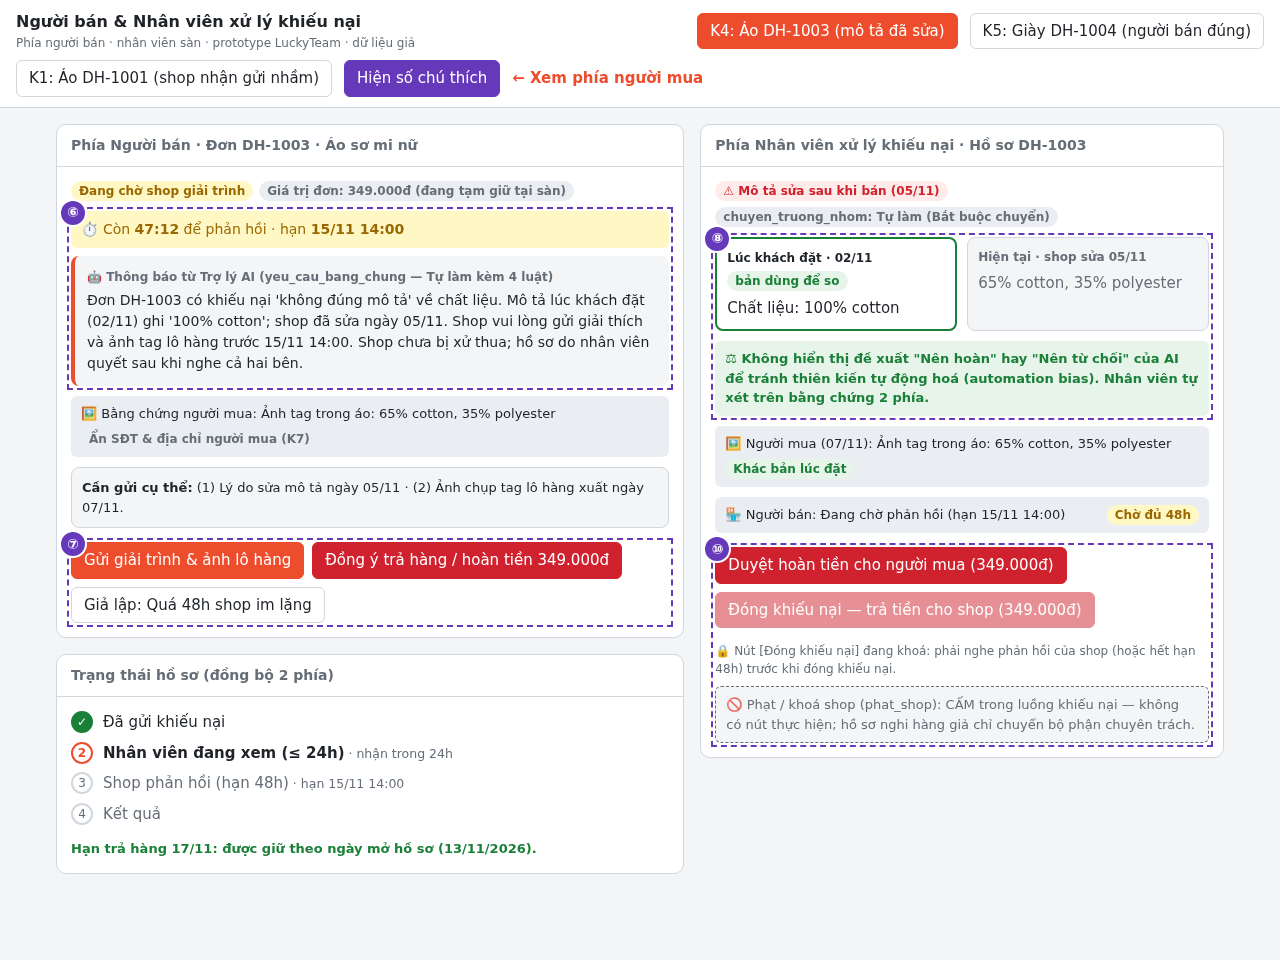
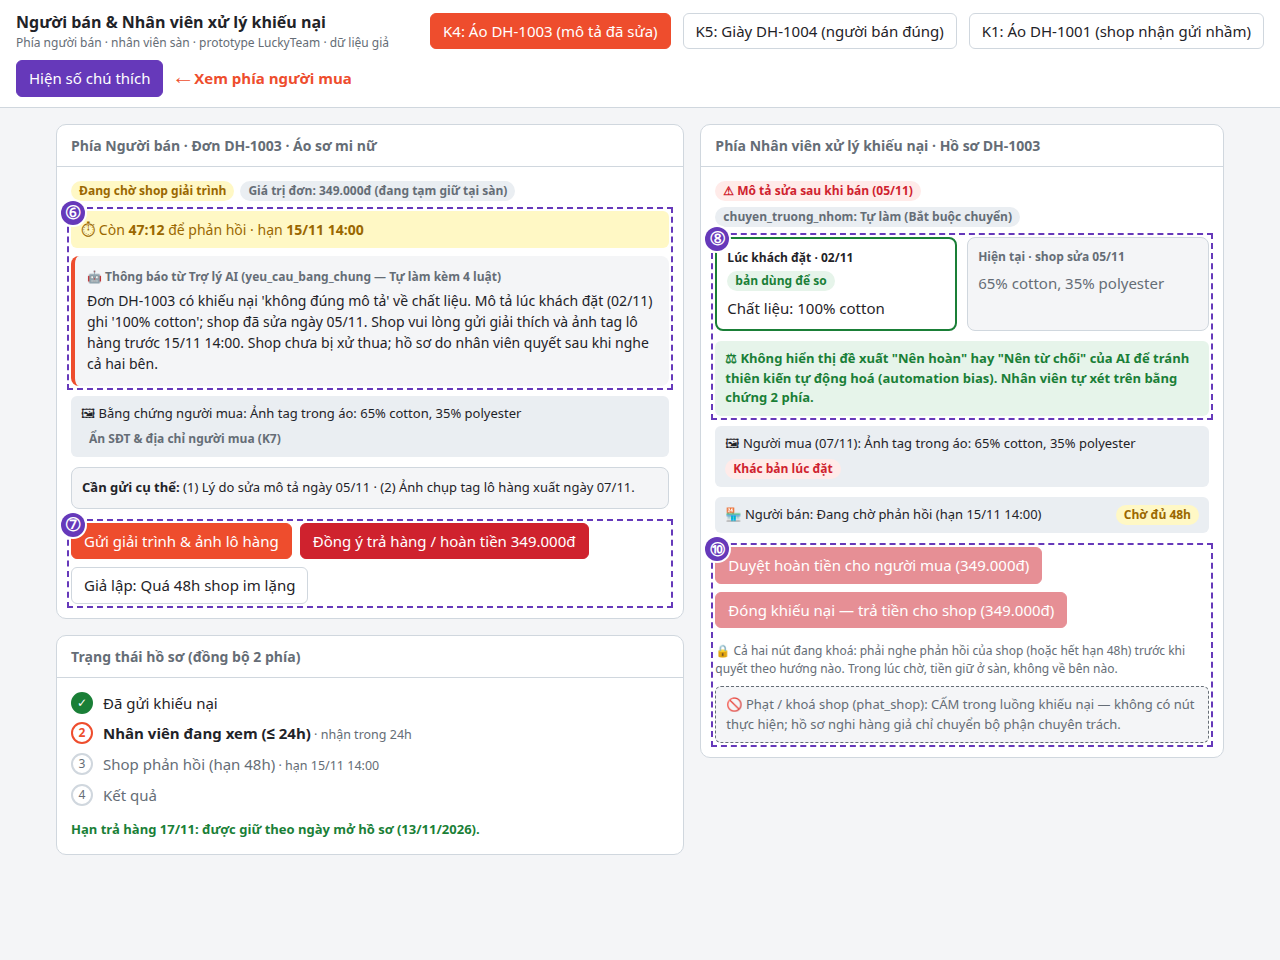
Khoá đối xứng hai nút quyết của nhân viên cho tới khi nghe shop, chụp lại ảnh màn người bán

diff --git a/prototype/seller.html b/prototype/seller.html
@@ -243,7 +243,7 @@
 
       <div class="bang-chung">
         <span>🖼 Người mua (${don.ngayGiao}): ${don.bangChungNguoiMua}</span>
-        <span class="nhan nhan-xanh">Khác bản lúc đặt</span>
+        <span class="nhan nhan-do">Khác bản lúc đặt</span>
       </div>
 
       <div class="bang-chung">
@@ -472,7 +472,7 @@
       <div class="khoi-dau">
         <span class="nhan nhan-xam">Hàng đợi nhân viên</span>
       </div>
-      <div class="hop-trung-lap" data-badge="⑧">
+      <div class="hop-trung-lap">
         ✓ Ở ca bình thường (K1), AI tự soạn đề xuất (<code>soan_de_xuat_hoan_tien</code>) và chuyển nút duyệt cho <b>bên chịu mất tiền (Người bán)</b>. Nhờ tách tool, nhân viên không bị ngập bởi các ca hiển nhiên.
       </div>
     `;
@@ -488,7 +488,10 @@
   // =====================================================================
   // Cụm nút phán quyết đối xứng của Nhân viên + Ô báo việc bị cấm (Badge ⑩)
   // =====================================================================
-  function veNutNhanVien(maDon, gia, choPhepDongKhieuNai) {
+  // daNgheHaiBen: shop đã phản hồi hoặc đã quá hạn 48h.
+  // Hai nút di chuyển tiền khoá/mở CÙNG điều kiện — đối xứng, đúng luật §4
+  // và rubric riêng #3 "người bán có thời hạn phản hồi trước khi quyết".
+  function veNutNhanVien(maDon, gia, daNgheHaiBen) {
     const hdNv = $("hanh-dong-nv");
     hdNv.innerHTML = "";
 
@@ -502,20 +505,21 @@
       const hang = document.createElement("div");
       hang.className = "hang-nut";
       hang.innerHTML = `
-        <button class="nut-nguy-hiem" id="nv-hoan-tien">
+        <button class="nut-nguy-hiem" id="nv-hoan-tien" ${daNgheHaiBen ? "" : "disabled"}
+          title="${daNgheHaiBen ? "" : "Chỉ mở sau khi shop đã phản hồi hoặc hết hạn 48 giờ"}">
           Duyệt hoàn tiền cho người mua (${tienVND(gia)})
         </button>
-        <button class="nut-nguy-hiem" id="nv-dong-kn" ${choPhepDongKhieuNai ? "" : "disabled"}
-          title="${choPhepDongKhieuNai ? "" : "Chỉ mở sau khi shop đã phản hồi hoặc hết hạn 48 giờ"}">
+        <button class="nut-nguy-hiem" id="nv-dong-kn" ${daNgheHaiBen ? "" : "disabled"}
+          title="${daNgheHaiBen ? "" : "Chỉ mở sau khi shop đã phản hồi hoặc hết hạn 48 giờ"}">
           Đóng khiếu nại — trả tiền cho shop (${tienVND(gia)})
         </button>
       `;
       khoi10.appendChild(hang);
 
-      if (!choPhepDongKhieuNai) {
+      if (!daNgheHaiBen) {
         const chuThich = document.createElement("p");
         chuThich.className = "ghi-chu-nho";
-        chuThich.textContent = "🔒 Nút [Đóng khiếu nại] đang khoá: phải nghe phản hồi của shop (hoặc hết hạn 48h) trước khi đóng khiếu nại.";
+        chuThich.textContent = "🔒 Cả hai nút đang khoá: phải nghe phản hồi của shop (hoặc hết hạn 48h) trước khi quyết theo hướng nào. Trong lúc chờ, tiền giữ ở sàn, không về bên nào.";
         khoi10.appendChild(chuThich);
       }
     } else {

diff --git a/spec.md b/spec.md
@@ -285,7 +285,7 @@ Người mua thấy dòng *"Đã huỷ chuyển kiểm định. Shop đã nhận
 | **⑦** | **Nút `[Đồng ý trả hàng / hoàn tiền]` kèm hộp xác nhận `<dialog>`** *(tab Người bán — K1 `DH-1001`, K4, K5)* | Từ hồ sơ đề xuất AI soạn sẵn (`soan_de_xuat_hoan_tien`), người bán thấy bản chụp mô tả lúc đặt, ảnh bằng chứng người mua và số tiền hoàn. Ở K1 (shop gửi nhầm size thật), người bán bấm `.nut-nguy-hiem` **`[Đồng ý hoàn tiền 189.000đ]`** → mở hộp xác nhận `moHopXacNhan()` tóm tắt lại số tiền + căn cứ + cảnh báo không đảo lại được trước khi thực thi `thuc_hien_hoan_tien`. Ở K4/K5, người bán có nút **`[Gửi giải trình & bằng chứng]`**; nếu quá 48 giờ shop im lặng, hồ sơ chuyển nhân viên chứ **AI không tự hoàn tiền**. | **G9** (Hỗ trợ kiểm soát / sửa chữa trước bước không đảo được) + **PAIR Errors & Graceful Failure**: tách bước "soạn" khỏi bước "tiền đi", chặn bấm nhầm bằng hộp xác nhận rõ ràng. | `soan_de_xuat_hoan_tien`: **Tự làm** · `thuc_hien_hoan_tien`: **Cần người duyệt** (bên mất tiền là người bán tự bấm đồng ý, hoặc nhân viên quyết). |
 | **⑧** | **Thẻ hồ sơ nhân viên: 2 phiên bản mô tả cạnh nhau, ẩn đề xuất phán quyết của AI** *(tab Nhân viên — K4 `DH-1003`)* | Hồ sơ tự động chuyển đến hàng đợi nhân viên với nhãn đỏ `.nhan-do` **`⚠ Mô tả sửa sau khi bán (05/11)`**. Đặt hai cột `.hai-cot` cạnh nhau: bản chụp lúc đặt (`02/11: "100% cotton"` — viền xanh `.dung-de-so`) và bản hiện tại (`05/11: "65% cotton, 35% polyester"`), kèm ảnh tag của người mua và phản hồi của shop. **Quan trọng:** giao diện nhân viên **chỉ hiện căn cứ đối chiếu, không hiện bất kỳ dòng gợi ý "AI đề xuất hoàn tiền / từ chối" nào** ở ca tranh chấp. | **PAIR Explainability & Trust** (*tin đúng mức > tin tối đa*, chống thiên kiến tự động hoá / *automation bias*) + **G11**: nhân viên thấy ngay lý do hồ sơ bị chuyển và tự kết luận trên bằng chứng gốc, không bị AI dẫn dắt. | `chuyen_truong_nhom`: **Tự làm (bắt buộc chuyển)** khi có cờ `daSuaSauKhiBan` (nên không cho hoàn tác bước chuyển này). |
 | **⑨** | **Hộp tách riêng lời doạ khỏi căn cứ** *(tab Nhân viên / Kiểm định — K5 `DH-1004`)* | Trên hồ sơ K5 (nhãn vàng `.nhan-vang` **`Nghi hàng giả`**), bảng 4 mục khớp mô tả (`Hộp ✓`, `Tem chống giả ✓`, `Màu trắng ✓`, `Size 41 ✓`) và chứng từ của shop nằm ở khung căn cứ chính; còn lời doạ *"Không hoàn tiền thì mình đăng group review bóc phốt shop luôn"* bị tách xuống hộp ghi chú riêng: **`"⚠ Có lời doạ đăng bài — không phải căn cứ"`** (`ghiChuLoiDoa`). | **G2** (Làm rõ giới hạn hệ thống & phạm vi căn cứ) + **PAIR Explainability & Trust**: hiển thị minh bạch yếu tố nào được tính là căn cứ, yếu tố nào bị loại trừ để người duyệt không bị áp lực cảm xúc kéo theo (rubric riêng #4). | `soan_de_xuat_hoan_tien` / tổng hợp hồ sơ: **Tự làm**, kèm luật bắt buộc lọc lời doạ và lịch sử khiếu nại ra khỏi khung căn cứ chính. |
-| **⑩** | **Cụm nút phán quyết đối xứng của nhân viên & ô báo việc bị cấm (`.khong-co-nut`)** *(tab Nhân viên — K4, K5)* | Hai nút hành động đối xứng `.nut-nguy-hiem`: **`[Duyệt hoàn tiền cho người mua]`** (`thuc_hien_hoan_tien`) và **`[Đóng khiếu nại — trả tiền cho shop]`** (`tu_choi_khieu_nai`, bị khoá/mờ nếu shop chưa phản hồi và chưa hết hạn 48 giờ). Bấm nút nào cũng phải qua hộp xác nhận `<dialog class="hop-xac-nhan">` ghi rõ bên mất tiền và căn cứ. Ngay dưới là ô nét đứt `.khong-co-nut`: **`🚫 Phạt / khoá shop (phat_shop): CẤM trong luồng khiếu nại — không có nút thực hiện; hồ sơ nghi hàng giả chỉ chuyển bộ phận chuyên trách.`** | **G1** (Làm rõ hệ thống làm được gì và không làm được gì) + **PAIR Errors & Graceful Failure**: biến quy tắc phân quyền ở §4 thành rào chắn vật lý trên màn hình (khoá nút khi chưa đủ hạn nghe 2 bên, xác nhận 2 bước khi di chuyển tiền, bỏ hẳn nút với việc bị cấm). | `thuc_hien_hoan_tien` & `tu_choi_khieu_nai`: **Cần người duyệt** · `phat_shop`: **Cấm** (hiện rõ trên giao diện là không có nút bấm). |
+| **⑩** | **Cụm nút phán quyết đối xứng của nhân viên & ô báo việc bị cấm (`.khong-co-nut`)** *(tab Nhân viên — K4, K5)* | Hai nút hành động đối xứng `.nut-nguy-hiem`: **`[Duyệt hoàn tiền cho người mua]`** (`thuc_hien_hoan_tien`) và **`[Đóng khiếu nại — trả tiền cho shop]`** (`tu_choi_khieu_nai`). **Cả hai nút cùng khoá** cho tới khi shop đã phản hồi hoặc hết hạn 48 giờ, để không hướng nào được quyết trước khi nghe người bán (rubric riêng #3); trong lúc chờ, tiền giữ ở sàn. Bấm nút nào cũng phải qua hộp xác nhận `<dialog class="hop-xac-nhan">` ghi rõ bên mất tiền và căn cứ. Ngay dưới là ô nét đứt `.khong-co-nut`: **`🚫 Phạt / khoá shop (phat_shop): CẤM trong luồng khiếu nại — không có nút thực hiện; hồ sơ nghi hàng giả chỉ chuyển bộ phận chuyên trách.`** | **G1** (Làm rõ hệ thống làm được gì và không làm được gì) + **PAIR Errors & Graceful Failure**: biến quy tắc phân quyền ở §4 thành rào chắn vật lý trên màn hình (khoá cả hai nút khi chưa đủ hạn nghe 2 bên, xác nhận 2 bước khi di chuyển tiền, bỏ hẳn nút với việc bị cấm). | `thuc_hien_hoan_tien` & `tu_choi_khieu_nai`: **Cần người duyệt** · `phat_shop`: **Cấm** (hiện rõ trên giao diện là không có nút bấm). |
 
 ### §5c. Lập luận cách hiện
 
@@ -315,7 +315,7 @@ Nhóm thiết kế cơ chế điều khiển mức tự chủ trên màn hình t
    - **Mức Cần người duyệt (`thuc_hien_hoan_tien`, `tu_choi_khieu_nai`) → Hiện bằng Nút hành động của đúng người có thẩm quyền + Hộp xác nhận `<dialog>` bắt buộc (⑦, ⑩):**
      - Phía người mua **không có nút hoàn tiền**.
      - Phía người bán chỉ có nút **`[Đồng ý trả hàng / hoàn tiền]`** (bên chịu mất tiền tự duyệt — giải quyết nhanh K1 mà không cần nhân viên).
-     - Phía nhân viên có **hai nút đối xứng** (`[Duyệt hoàn tiền]` / `[Đóng khiếu nại]`), trong đó nút `[Đóng khiếu nại]` chỉ mở khi đã nghe đủ hai bên (shop đã phản hồi hoặc hết hạn 48 giờ). Mọi cú bấm di chuyển tiền đều bật `<dialog class="hop-xac-nhan">` tóm tắt lại số tiền, người chịu và căn cứ trước khi thực thi.
+     - Phía nhân viên có **hai nút đối xứng** (`[Duyệt hoàn tiền]` / `[Đóng khiếu nại]`), **cả hai nút cùng khoá và cùng mở** khi đã nghe đủ hai bên (shop đã phản hồi hoặc hết hạn 48 giờ). Nhóm đã cân nhắc chỉ khoá nút [Đóng khiếu nại], nhưng loại: như thế nhân viên hoàn tiền được trước khi nghe shop, tức hai hướng không còn đối xứng như luật ở §4. Mọi cú bấm di chuyển tiền đều bật `<dialog class="hop-xac-nhan">` tóm tắt lại số tiền, người chịu và căn cứ trước khi thực thi.
    - **Mức Cấm (`phat_shop`) → Hiện bằng ô thông báo tĩnh không thể bấm (`.khong-co-nut`, ⑩):**
      - Thay vì ẩn im lặng (khiến người mua hoặc nhân viên mới tưởng hệ thống bị lỗi hay thiếu tính năng), giao diện đặt một ô viền nét đứt ghi rõ `🚫 Phạt / khoá shop: không thuộc luồng này → chuyển bộ phận chuyên trách`, hoàn toàn **không có nút bấm**.
 
